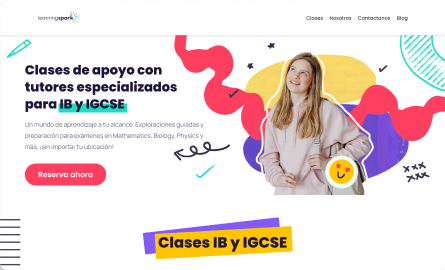
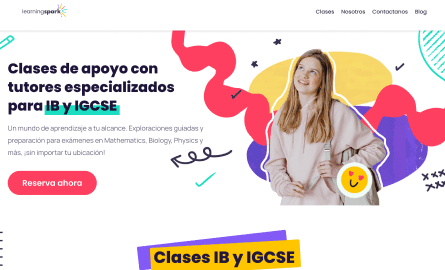
images compress

diff --git a/src/app/layout.tsx b/src/app/layout.tsx
@@ -1,15 +1,15 @@
 import type { Metadata } from "next";
-import { Inter } from "next/font/google";
+
 import "./globals.css";
 import Hero from "@/components/hero/Hero";
 import Footer from "@/components/footer/Footer";
 
 
-const inter = Inter({ subsets: ["latin"] });
 
 export const metadata: Metadata = {
-  title: "Tomás Sorgetti - FullStack Developer",
-  description: "Portfolio de Tomás Sorgetti, un FullStack Developer",
+  title: "Tomás Sorgetti - Web Developer",
+  description: "Diseñador y desarrollador web con experiencia como luthier",
+  keywords:"diseñador, desarrollador web, frontend, fullstack, backend, software, developer, software developer, jr, junior, software engineer, web developer, react, node, figma, react developer",
 };
 
 export default function RootLayout({
@@ -23,7 +23,7 @@ export default function RootLayout({
         <link rel="shortcut icon" href="icon.png" type="image/x-icon" />
       </head>
       <body
-        className={`${inter.className} main_body`}
+        className={`main_body`}
         
       >
         <Hero />

diff --git a/src/components/contact/Contact.tsx b/src/components/contact/Contact.tsx
@@ -30,10 +30,11 @@ const Contact = () => {
     event.preventDefault();
 
     if (
-      (errors.name === "" && form.name !== "") ||
-      (errors.subject === "" && form.subject !== "") ||
-      (errors.email === "" && form.email !== "") ||
-      (errors.message === "" && form.message !== "")
+      errors.name === "" &&
+      form.name !== "" &&
+      errors.subject === "" && form.subject !== "" &&
+      errors.email === "" && form.email !== "" &&
+      errors.message === "" && form.message !== ""
     ) {
       setIsLoading(true);
       //TODO Envio de mail con emailjs momentaneo
